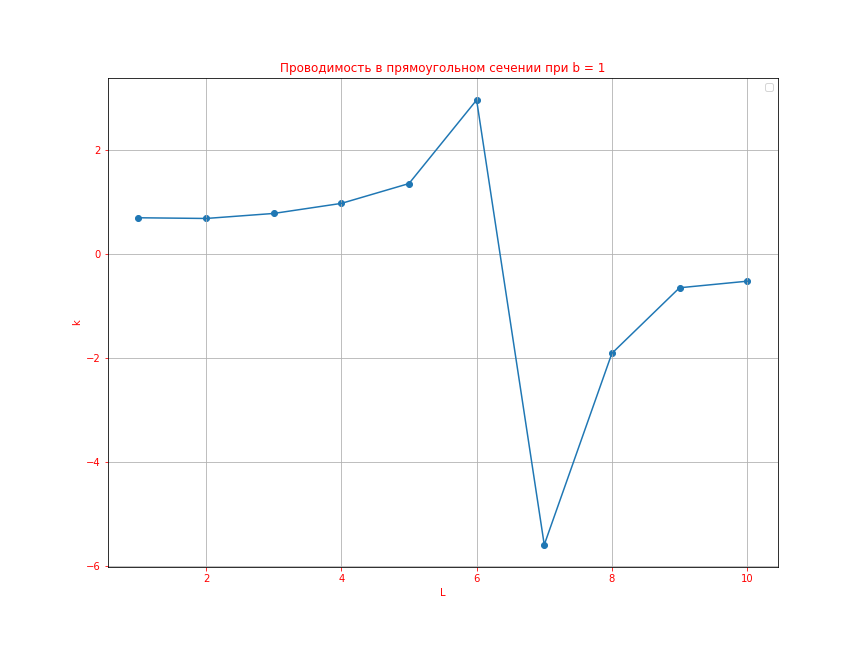
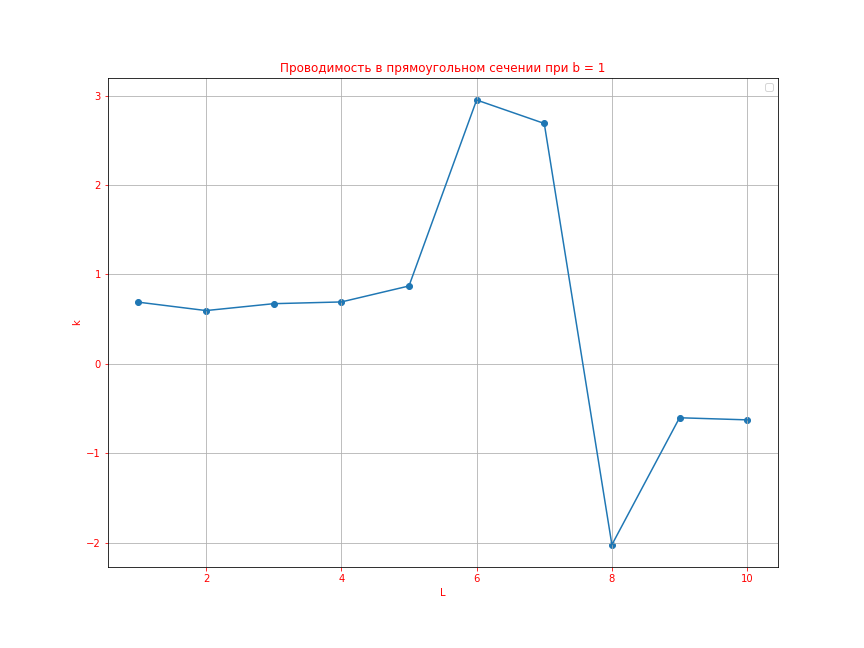
Add check additivity

diff --git a/rectangular.py b/rectangular.py
@@ -46,14 +46,14 @@ def euclid(num_1, num_2):
 
 # ф-ция находит минимальное количество квадратов
 # с одинаковой площадью, на которое можно разбить
-# данный прямоугольник
+# прямоугольник со сторонами a и b.
 def search_squares(a: int, b: int) -> int:
     gcd = euclid(a, b)  # НОД
     return int(a * b / gcd)
 
 
 # ф-ция ищет оптимальное кол-во квадратов
-# в зависимости от введенного кол-ва
+# в зависимости от введенного кол-ва.
 def optimal_squares(a, b, num):
     min_num = search_squares(a, b)
     n = num // (4 * min_num)
@@ -66,7 +66,7 @@ def optimal_squares(a, b, num):
 # если смотреть в направлении от 1 к 2, то
 # 3,4,5 и 6 грани пронумерованы по часовой стрелке.
 def breaking_1(a, b, num, s=0) -> list:
-    # a - вдоль x, b - вдоль z, s - вдоль y
+    # a - вдоль x, b - вдоль z, s - вдоль y.
     num = optimal_squares(a, b, num)
 
     square_side = math.sqrt(a * b / num)
@@ -74,9 +74,9 @@ def breaking_1(a, b, num, s=0) -> list:
     l_2 = int(b / square_side)
     res = []
     for i in range(l_1):
-        x = a / (2 * l_1) + a / l_1 * i
+        x = a / (2 * l_1) + square_side * i
         for j in range(l_2):
-            z = b / (2 * l_2) + b / l_2 * j
+            z = b / (2 * l_2) + square_side * j
             center = [x, 0, z]
             res.append(center)
     return res
@@ -90,9 +90,9 @@ def breaking_2(a, b, num, s) -> list:
     l_1 = int(a / square_side)
     l_2 = int(b / square_side)
     for i in range(l_1):
-        x = a / (2 * l_1) + a / l_1 * i
+        x = a / (2 * l_1) + square_side * i
         for j in range(l_2):
-            z = b / (2 * l_2) + b / l_2 * j
+            z = b / (2 * l_2) + square_side * j
             center = [x, s, z]
             res.append(center)
     return res
@@ -106,9 +106,9 @@ def breaking_3(a, b, num, s) -> list:
     l_1 = int(a / square_side)
     l_2 = int(s / square_side)
     for i in range(l_1):
-        x = a / (2 * l_1) + a / l_1 * i
+        x = a / (2 * l_1) + square_side * i
         for j in range(l_2):
-            y = s / (2 * l_2) + s / l_2 * j
+            y = s / (2 * l_2) + square_side * j
             center = [x, y, b]
             res.append(center)
     return res
@@ -122,9 +122,9 @@ def breaking_4(a, b, num, s) -> list:
     l_1 = int(s / square_side)
     l_2 = int(b / square_side)
     for i in range(l_1):
-        y = s / (2 * l_1) + s / l_1 * i
+        y = s / (2 * l_1) + square_side * i
         for j in range(l_2):
-            z = b / (2 * l_2) + b / l_2 * j
+            z = b / (2 * l_2) + square_side * j
             center = [0, y, z]
             res.append(center)
     return res
@@ -138,9 +138,9 @@ def breaking_5(a, b, num, s) -> list:
     l_1 = int(a / square_side)
     l_2 = int(s / square_side)
     for i in range(l_1):
-        x = a / (2 * l_1) + a / l_1 * i
+        x = a / (2 * l_1) + square_side * i
         for j in range(l_2):
-            y = s / (2 * l_2) + s / l_2 * j
+            y = s / (2 * l_2) + square_side * j
             center = [x, y, 0]
             res.append(center)
     return res
@@ -154,15 +154,15 @@ def breaking_6(a, b, num, s) -> list:
     l_1 = int(s / square_side)
     l_2 = int(b / square_side)
     for i in range(l_1):
-        y = s / (2 * l_1) + s / l_1 * i
+        y = s / (2 * l_1) + square_side * i
         for j in range(l_2):
-            z = b / (2 * l_2) + b / l_2 * j
+            z = b / (2 * l_2) + square_side * j
             center = [a, y, z]
             res.append(center)
     return res
 
 
-# площади "уникальных" поверхностей - area_1 == area_2 итд
+# площади "уникальных" поверхностей - area_1 == area_2 итд.
 def area_1(a, b, s):
     return a * b
 
@@ -176,16 +176,12 @@ def area_4(a, b, s):
 
 
 # ПРОВОДИМОСТЬ
-# ф-ция, заменяющая столбец матрицы
+# ф-ция, заменяющая j-й столбец матрицы A.
 def change_column(A, j: int = 0):
-    # A - матрица
-    # j - номер изменяемого столбца
     new_A = A.copy()
-    for i in range(len(new_A)):
-        if i:
-            new_A[i][j] = 0
-        else:
-            new_A[i][j] = 1
+    new_A[0][j] = 1
+    for i in range(1,len(new_A)):
+        new_A[i][j] = 0
     return new_A
 
 
@@ -200,6 +196,19 @@ class Rectangular:
         for i in range(6):
             self.areas[i] = self.areas[i](a, b, L)
         return
+    
+    #i - номер эмиттера, а
+    #num_1 - на сколько квадратов его разбить.
+    #center_j, normal_j - параметры коллектора.
+    def to_other(self, i, center_j, normal_j, F_j, num_1):
+        # параметры эмиттера:
+        # num_i - число квадратов, на которое
+        # удалось разделить эмиттер в итоге.
+        i-=1
+        emitters  = self.breaking[i](self.a, self.b, num_1, self.L)
+        normal_i  = self.normals[i]
+        area_i    = self.areas[i]
+        return sum([elementary(emitter,center_j,normal_i,normal_j,F_j) for emitter in emitters]) / area_i
 
     def some_pair(self, i, j, num_1, num_2):
         # i - номер эмиттера   от 1 до 6.
@@ -211,31 +220,31 @@ class Rectangular:
 
         # параметры коллектора:
         # num_j - число квадратов, на которое
-        # удалось разделить коллектор в итоге
-        collector = self.breaking[j](self.a, self.b, num_2, self.L)
-        num_j     = len(collector)
+        # удалось разделить коллектор в итоге.
+        collectors= self.breaking[j](self.a, self.b, num_2, self.L)
+        num_j     = len(collectors)
         normal_j  = self.normals[j]
         cell_j    = self.areas[j] / num_j
 
         # параметры эмиттера:
         # num_i - число квадратов, на которое
-        # удалось разделить эмиттер в итоге
-        emitter   = self.breaking[i](self.a, self.b, num_1, self.L)
-        num_i     = len(emitter)
+        # удалось разделить эмиттер в итоге.
+        emitters  = self.breaking[i](self.a, self.b, num_1, self.L)
+        num_i     = len(emitters)
         normal_i  = self.normals[i]
         area_i    = self.areas[i]
         cell_i    = area_i / num_i
-        return emitter_to_collector(emitter, collector, normal_i, normal_j, cell_i, cell_j) / area_i
+        return emitter_to_collector(emitters,collectors,normal_i,normal_j,cell_i,cell_j) / area_i
 
     def matrix(self, num_1, num_2):
-        res = []  # будущая матрица УК
-        line = [0] * 7  # текущий столбец матрицы
+        res = []  # будущая матрица УК.
+        line = [0] * 7  # текущий столбец матрицы.
         # т.к. УК вида phi_21, phi_31, ..., phi_61
-        # не используются в дальнейшем
+        # не используются в дальнейшем.
         for j in range(1, 7):
             # благодаря симметрии УК для граней 5 и 6
             # в качестве коллекторов можно не считать,
-            # симметрия учтена при решении системы ур-ний 2.1
+            # симметрия учтена при решении системы ур-ний 2.1.
             res.append(line)
             line = []
             for i in range(7):
@@ -249,7 +258,7 @@ class Rectangular:
         res.append(line)
         # транспонируем, чтобы можно было
         # найти phi_ij = matrix[i][j],
-        # а не  phi_ij = matrix[j][i]
+        # а не  phi_ij = matrix[j][i].
         return np.transpose(np.array(res))
 
     def clausing(self, num_1=10, num_2=10):
@@ -261,7 +270,7 @@ class Rectangular:
         sle = np.array(sle)
         delta = np.linalg.det(sle)
         q = []  # [Q_1, Q_3, Q_4]
-        # метод Крамера
+        # метод Крамера.
         for j in range(3):
             new_sle = change_column(sle, j)
             delta_j = np.linalg.det(new_sle)
